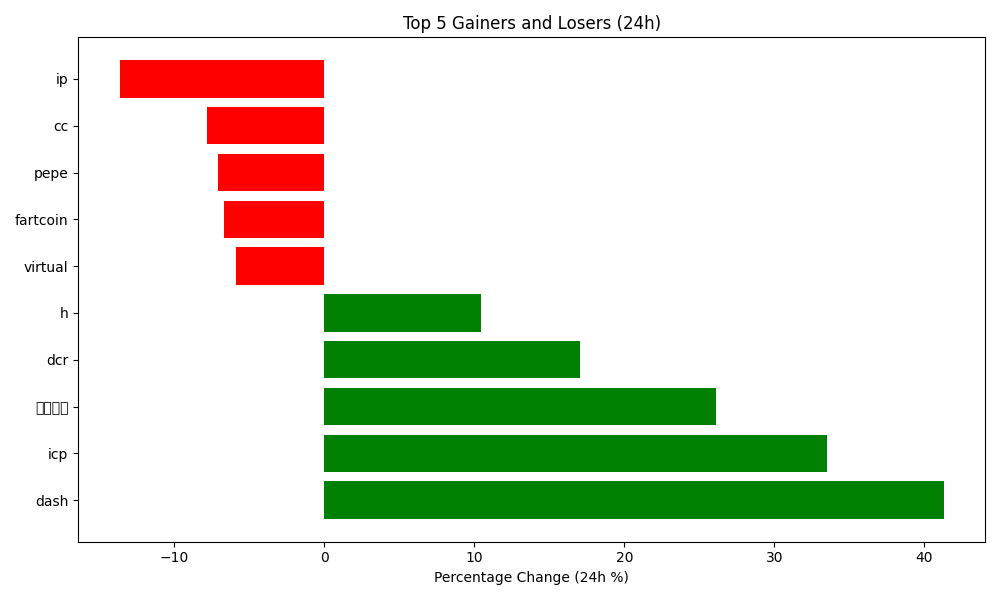
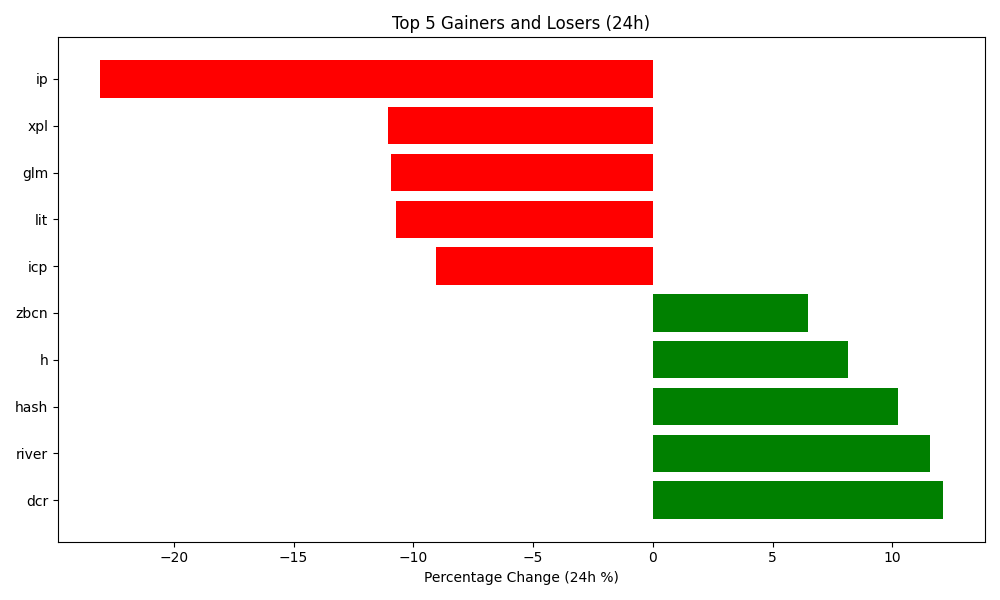
Auto-update crypto data and plot

diff --git a/README.md b/README.md
@@ -4,7 +4,7 @@ Author: Hitesh Agrawal
 This repository automatically tracks the top 5 gaining, top 5 losing, and top 5 highest volume cryptocurrencies in the last 24 hours using the CoinGecko API, Python, Matplotlib, and GitHub Actions updates the below content everyday at midnight.
 
 <!-- START_DYNAMIC_CONTENT -->
-Last updated: 2026-01-15 01:09 UTC
+Last updated: 2026-01-16 01:11 UTC
 
 ![Crypto Movers Plot](crypto_movers_plot.png)
 
@@ -12,33 +12,33 @@ Last updated: 2026-01-15 01:09 UTC
 
 | Rank | Coin | Price Change (24h %) | Volume (USD) | Current Price (USD) |
 | :--: | :--: | :------------------: | :----------: | :-----------------: |
-| 1 | dash | 41.29% | $1,360,263,425 | $82.3600 |
-| 2 | icp | 33.48% | $641,523,358 | $4.7700 |
-| 3 | 币安人生 | 26.11% | $222,909,076 | $0.2586 |
-| 4 | dcr | 17.08% | $25,507,938 | $22.4700 |
-| 5 | h | 10.43% | $67,313,063 | $0.1830 |
+| 1 | dcr | 12.11% | $34,208,389 | $25.1400 |
+| 2 | river | 11.55% | $42,682,642 | $25.8900 |
+| 3 | hash | 10.23% | $16,613 | $0.0263 |
+| 4 | h | 8.15% | $82,358,047 | $0.1976 |
+| 5 | zbcn | 6.48% | $15,671,641 | $0.0030 |
 
 
 **👇 Top 5 Losers (24h)**
 
 | Rank | Coin | Price Change (24h %) | Volume (USD) | Current Price (USD) |
 | :--: | :--: | :------------------: | :----------: | :-----------------: |
-| 1 | ip | -13.63% | $346,100,465 | $3.3800 |
-| 2 | cc | -7.83% | $17,373,368 | $0.1344 |
-| 3 | pepe | -7.07% | $1,029,662,060 | $0.0000 |
-| 4 | fartcoin | -6.70% | $153,739,194 | $0.3904 |
-| 5 | virtual | -5.87% | $136,772,076 | $1.0160 |
+| 1 | ip | -23.08% | $216,352,327 | $2.6000 |
+| 2 | xpl | -11.07% | $111,343,624 | $0.1439 |
+| 3 | glm | -10.92% | $17,421,079 | $0.2830 |
+| 4 | lit | -10.71% | $204,640,331 | $1.8900 |
+| 5 | icp | -9.03% | $470,943,171 | $4.3400 |
 
 
 **💎 Top 5 by Trade Volume (24h)**
 
 | Rank | Coin | Price Change (24h %) | Volume (USD) | Current Price (USD) |
 | :--: | :--: | :------------------: | :----------: | :-----------------: |
-| 1 | usdt | 0.06% | $113,321,266,618 | $0.9999 |
-| 2 | btc | 1.66% | $68,161,164,147 | $96,846.0000 |
-| 3 | eth | 0.27% | $33,869,037,977 | $3,338.0000 |
-| 4 | usdc | 0.01% | $21,238,738,924 | $0.9998 |
-| 5 | sol | 0.75% | $6,632,005,481 | $146.2800 |
+| 1 | usdt | -0.02% | $92,892,917,948 | $0.9997 |
+| 2 | btc | -1.45% | $57,954,735,443 | $95,493.0000 |
+| 3 | eth | -0.98% | $27,886,897,968 | $3,307.0000 |
+| 4 | usdc | -0.02% | $14,424,993,338 | $0.9996 |
+| 5 | sol | -2.76% | $4,886,113,699 | $142.2300 |
 
 
 <!-- END_DYNAMIC_CONTENT -->
